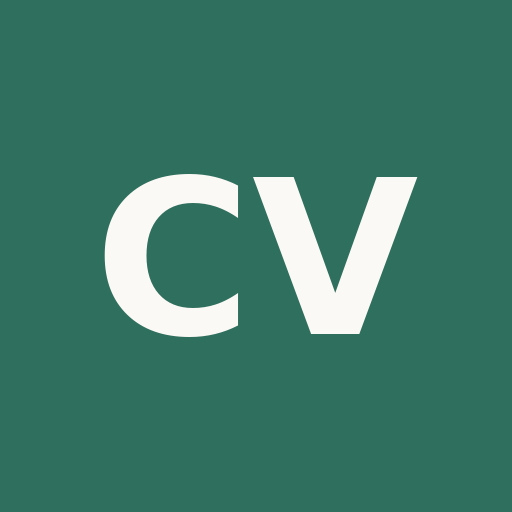
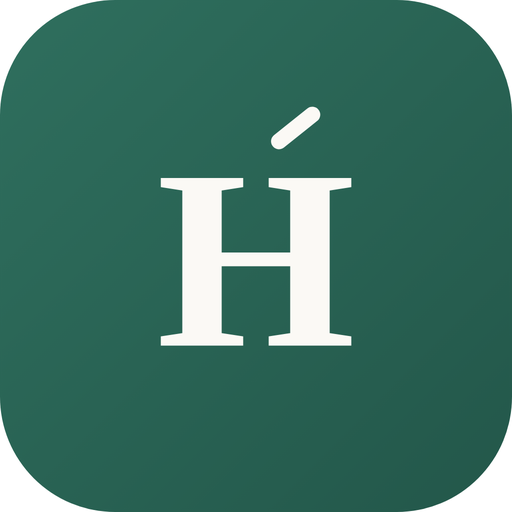
Add files via upload

diff --git a/service-worker.js b/service-worker.js
@@ -1,4 +1,4 @@
-const CACHE_NAME = "cv-builder-v50";
+const CACHE_NAME = "cv-builder-v51";
 const PRECACHE_URLS = [
   "./",
   "./index.html",

diff --git a/README.md b/README.md
@@ -182,3 +182,7 @@ Antes, tocar "Editar" (en celular) siempre te llevaba al principio del formulari
 ## Cambio de nombre: HazTuCV
 
 La app pasó a llamarse **HazTuCV** en todos lados: título de la pestaña, encabezado, y el nombre que aparece al instalarla en el celular (`manifest.json`). Si ya la tenías instalada de antes, es posible que tengas que desinstalarla y volver a instalarla para que el ícono/nombre en tu pantalla de inicio se actualice — algunos sistemas no refrescan el nombre de una PWA ya instalada automáticamente.
+
+## Ícono nuevo
+
+Reemplacé el ícono de la app: una "H" serif (de HazTuCV) con un acento arriba a la derecha, en verde bosque (el mismo tono del acento por defecto de la app) con fondo degradado sutil. Genera los tres tamaños que pide `manifest.json` (192px, 512px, y una versión 512px "maskable" con más margen para que no se corte cuando el sistema operativo la recorta en círculo).
